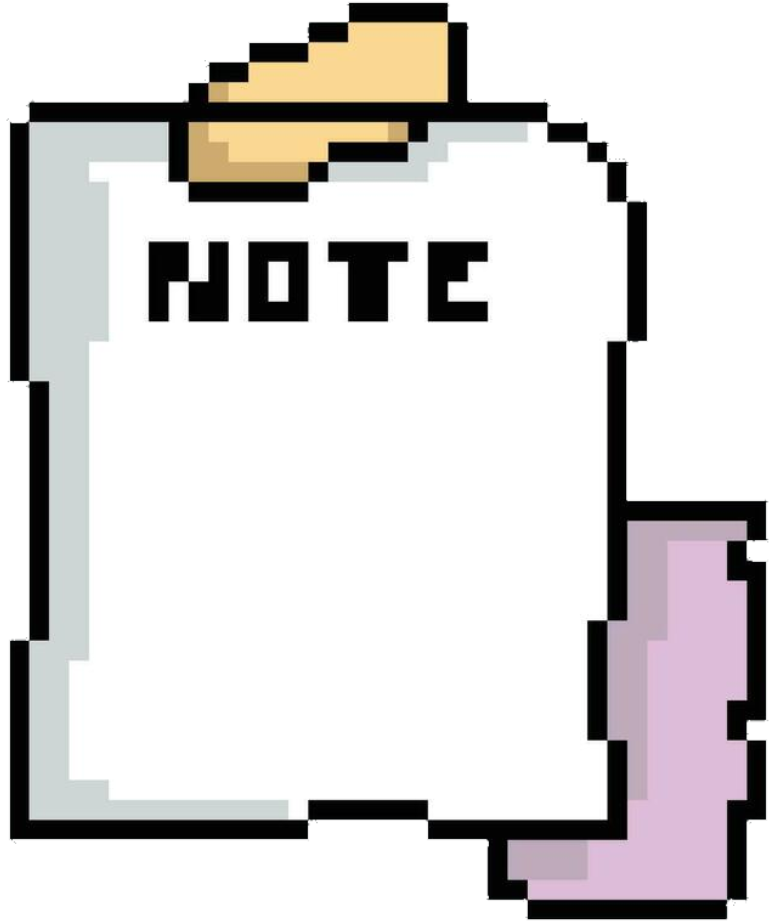
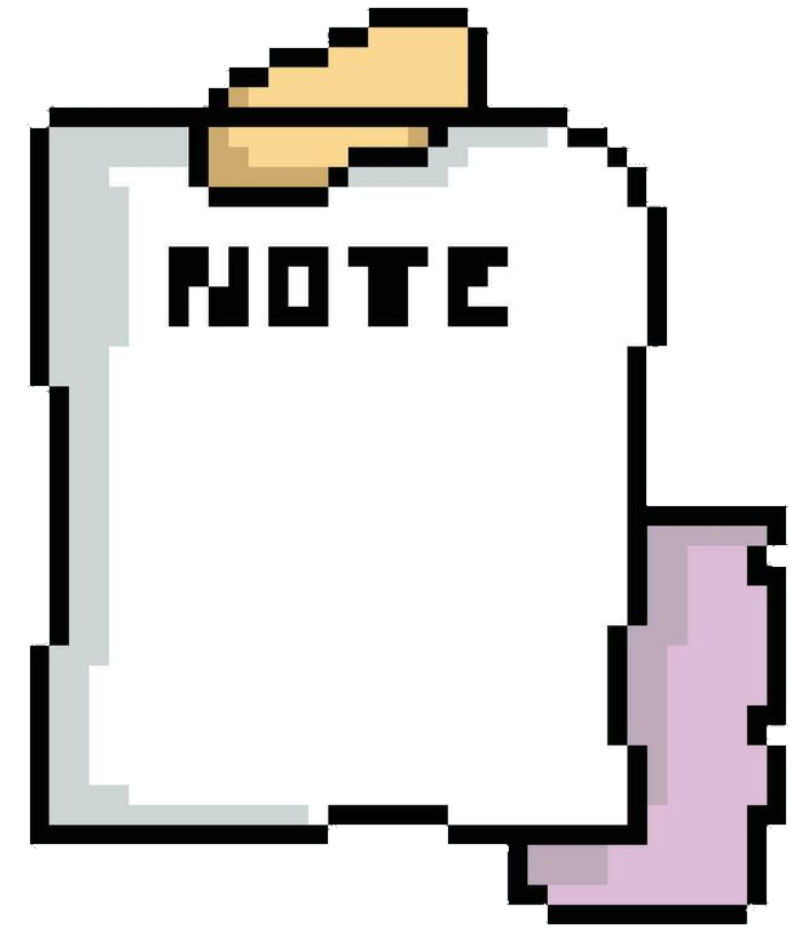
oven page css styling done and minor bug fix to what can I make function display.

Changed region(s): [[0.0, 0.0, 0.9859, 1.0]]

diff --git a/oven.html b/oven.html
@@ -10,6 +10,19 @@
     <link href="https://fonts.googleapis.com/css2?family=Pixelify+Sans:wght@400..700&display=swap" rel="stylesheet">
 
     <style>
+        :root{
+            --darkBlue: #0a1c2a;
+            --midBlue: #456b96;
+            --lightBlue: #9cc1ea;
+        }
+
+        html, body{
+            margin: 0;
+            width: auto;
+            height: auto;
+            overflow: hidden;
+        }
+
         body{
             background-image: url(assets/backkitchen.png);
             background-size: cover;
@@ -25,21 +38,88 @@
             font-style: normal;
         }
 
+        h1{
+            font-size: 4vw;
+        }
+
+        h2{
+            font-size: 2.5vw;
+        }
+
+        ul{
+            font-size: 1.5vw;
+        }
+
+        .header{
+            display: flex;
+            justify-content: center;
+        }
+        
+        .buttonContainer{
+            display: flex;
+            justify-content: center;
+            margin-top: -2vw;
+        }
+
+        .mainContainer{
+            display: grid;
+        }
+
+        .makeContainer{
+            margin-left: 80%;
+            margin-top: -12vw;
+        }
+
+        .recipeContainer{
+            margin-left: 5%;
+        }
+
         .back{
             border: none;
             background: none;
         }
+
+        .oven {
+            display: block;
+            margin-right: auto;
+            margin-left: auto;
+            margin-top: -5vw;
+            width: 50%;
+            z-index: 99;
+        }
+
+        .owned{
+            visibility: hidden;
+        }
     </style>
 </head>
 <body>
-    <button id="recipeAdd">Add New Recipe</button>
-    <button id="make">What can I make?</button>
-    <ul id="recipeList"></ul>
-    <ul id="makeList"></ul>
-    <ul id="ownedList"></ul>
-    <button class="back" onclick="window.history.back()">
-        <img src="assets/backarrow.png"/>
-    </button>
+    <div class="header">
+        <button class="back" onclick="window.history.back()">
+            <img src="assets/backarrow.png"/>
+        </button>
+        <h1> What can I Cook?</h1>
+    </div>
+    <div class="buttonContainer">
+        <button id="recipeAdd">Add New Recipe</button>
+        <button id="make" onclick="">What can I make?</button>
+    </div>
+    <div class="mainContainer">
+         <div class="recipeContainer">
+            <h2> Recipes:</h2>
+            <ul id="recipeList" class="recipe"></ul>
+        </div>       
+
+        <img src="assets/openoven.png" class="oven">
+
+        <div class="makeContainer">
+            <h2> What To Make:</h2>
+            <ul id="makeList" class="make"></ul>
+        </div> 
+    </div>
+    <ul id="ownedList" class="owned"></ul>
+
+   
     <script src="script.js"></script>
 </body>
 </html>

diff --git a/fridge.html b/fridge.html
@@ -10,6 +10,20 @@
     <link href="https://fonts.googleapis.com/css2?family=Pixelify+Sans:wght@400..700&display=swap" rel="stylesheet">
 
     <style>
+        :root{
+            --brown: #D7CEC5;
+            --blue: #C7CCF5;
+            --cream: #F6F6EC;
+            --grey: #2E2D29;
+        }
+
+        html, body{
+            margin: 0;
+            width: auto;
+            height: auto;
+            overflow: hidden;
+        }
+
         body{
             background-image: url(assets/backkitchen.png);
             background-size: cover;
@@ -25,17 +39,59 @@
             font-style: normal;
         }
 
+        .container{
+            display: flex;
+            justify-content: center;
+            margin-top: -2vw
+        }
+
+        h1{
+            white-space: nowrap;
+            font-size: 4vw;
+        }
+
+        .region{
+            position: absolute;
+            left: 40%;
+            top: 50%;
+            height: 32vw;
+            width: 24vw;
+            transform: translate(-12vw, -16vw);
+            overflow: scroll;
+            z-index: 1;
+        }
+
+        .fridge {
+            display: block;
+            margin-right: auto;
+            margin-left: auto;
+            margin-top: -4vw;
+            width: 50%;
+            z-index: 99;
+        }
+
         .back{
             border: none;
             background: none;
         }
+
+        ul{
+            font-size: 1.5vw;
+        }
     </style>
 </head>
 <body>
-    <ul id="ownedList"></ul>
-    <button class="back" onclick="window.history.back()">
-        <img src="assets/backarrow.png"/>
-    </button>
+    <div class="container">
+        <button class="back" onclick="window.history.back()">
+            <img src="assets/backarrow.png"/>
+        </button>
+        <h1> What Ingredients do you Have?</h1>
+        <div class = "region">
+            <ul id="ownedList"></ul>
+        </div>
+    </div>
+    
+    <img src="assets/openfridge.png" class="fridge">
     <script src="script.js"></script>
 </body>
 </html>

diff --git a/list.html b/list.html
@@ -8,11 +8,28 @@
     <link rel="preconnect" href="https://fonts.googleapis.com">
     <link rel="preconnect" href="https://fonts.gstatic.com" crossorigin>
     <link href="https://fonts.googleapis.com/css2?family=Pixelify+Sans:wght@400..700&display=swap" rel="stylesheet">
+    
     <style>
+        :root{
+            --pink: #DDBCD9;
+            --shadowPink: #BFAABB;
+            --yellow: #FAD793;
+            --shadowYellow: #CDA770;
+        }
+
+        html, body{
+            margin: 0;
+            width: auto;
+            height: auto;
+            overflow: hidden;
+        }
+
         body{
-            background-image: url(assets/notekitchen.png);
+            background-image: url(assets/backkitchen.png);
             background-size: cover;
-            background-repeat: no-repeat;  
+            background-repeat: no-repeat;
+            overflow: hidden;
+            position: relative;
         }
 
         *{
@@ -32,20 +49,21 @@
             left: 47%;
             top: 61%;
             height: 20vw;
-            margin-top: -10vw;
             width: 20vw;
-            margin-left: -10vw;
-            padding: 1rem;
+            transform: translate(-10vw, -10vw);
             overflow: scroll;
             z-index: 1;
         }
 
-        img {
-            height: auto;
+        .note {
             display: block;
-            width: 100%;
+            margin-right: auto;
+            margin-left: auto;
+            margin-top: -4vw;
+            width: 40%;
             z-index: 99;
         }
+        
         ul{
             padding: 0;
         }
@@ -67,7 +85,7 @@
     <button class="back" onclick="window.history.back()">
         <img src="assets/backarrow.png"/>
     </button>
-    <img src="assets/fridgenote.png">
+    <img src="assets/fridgenote.png" class="note">
     <script src="script.js"></script>
 </body>
 </html>

diff --git a/recipe.html b/recipe.html
@@ -10,6 +10,23 @@
     <link href="https://fonts.googleapis.com/css2?family=Pixelify+Sans:wght@400..700&display=swap" rel="stylesheet">
 
     <style>
+        :root{
+            --red: #C0555D;
+            --shadowRed: #A33649;
+            --lightBlue: #71B1BD;
+            --shadowBlue: #4D98AD;
+            --brown: #51392D;
+            --cream: #DED6C3;
+            --shadowCream: #CFC1A4;
+        }
+
+        html, body{
+            margin: 0;
+            width: auto;
+            height: auto;
+            overflow: hidden;
+        }
+
         body{
             background-image: url(assets/backkitchen.png);
             background-size: cover;

diff --git a/script.js b/script.js
@@ -266,7 +266,8 @@ function loadIngredients(){
 
 // sort list based on required list length (can show recipes w/ least ingredients required if none)
 function filterRecipes(){
-    let make = []
+    makeList.innerHTML = "";
+    let make = [];
     var ctr = 0;
     recList.forEach(item =>{
         let required = checkRecipe(item)
